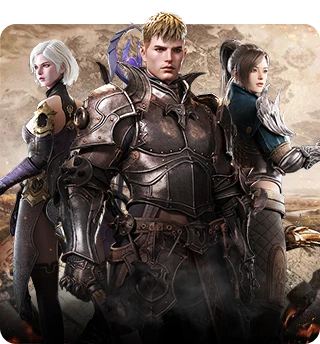
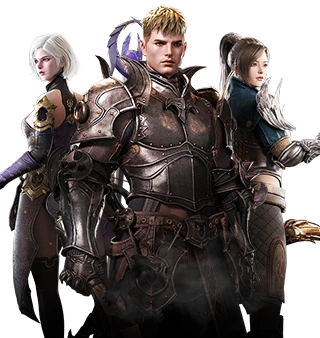
수정: 이미지 5번 6번 재추가

diff --git a/homework-js/component-project/styles/components/image-container.css b/homework-js/component-project/styles/components/image-container.css
@@ -40,14 +40,14 @@ img {
   align-items: flex-end;
 }
 .bg-card-5 {
-  /* background-image: url(../../images/game-5-bg.png); */
+  background-image: url(../../images/game-5-bg.png);
   border-radius: 8px;
   height: 160px;
   display: flex;
   align-items: flex-end;
 }
 .bg-card-6 {
-  /* background-image: url(../../images/game-6-bg.png); */
+  background-image: url(../../images/game-6-bg.png);
   border-radius: 8px;
   height: 160px;
   display: flex;
